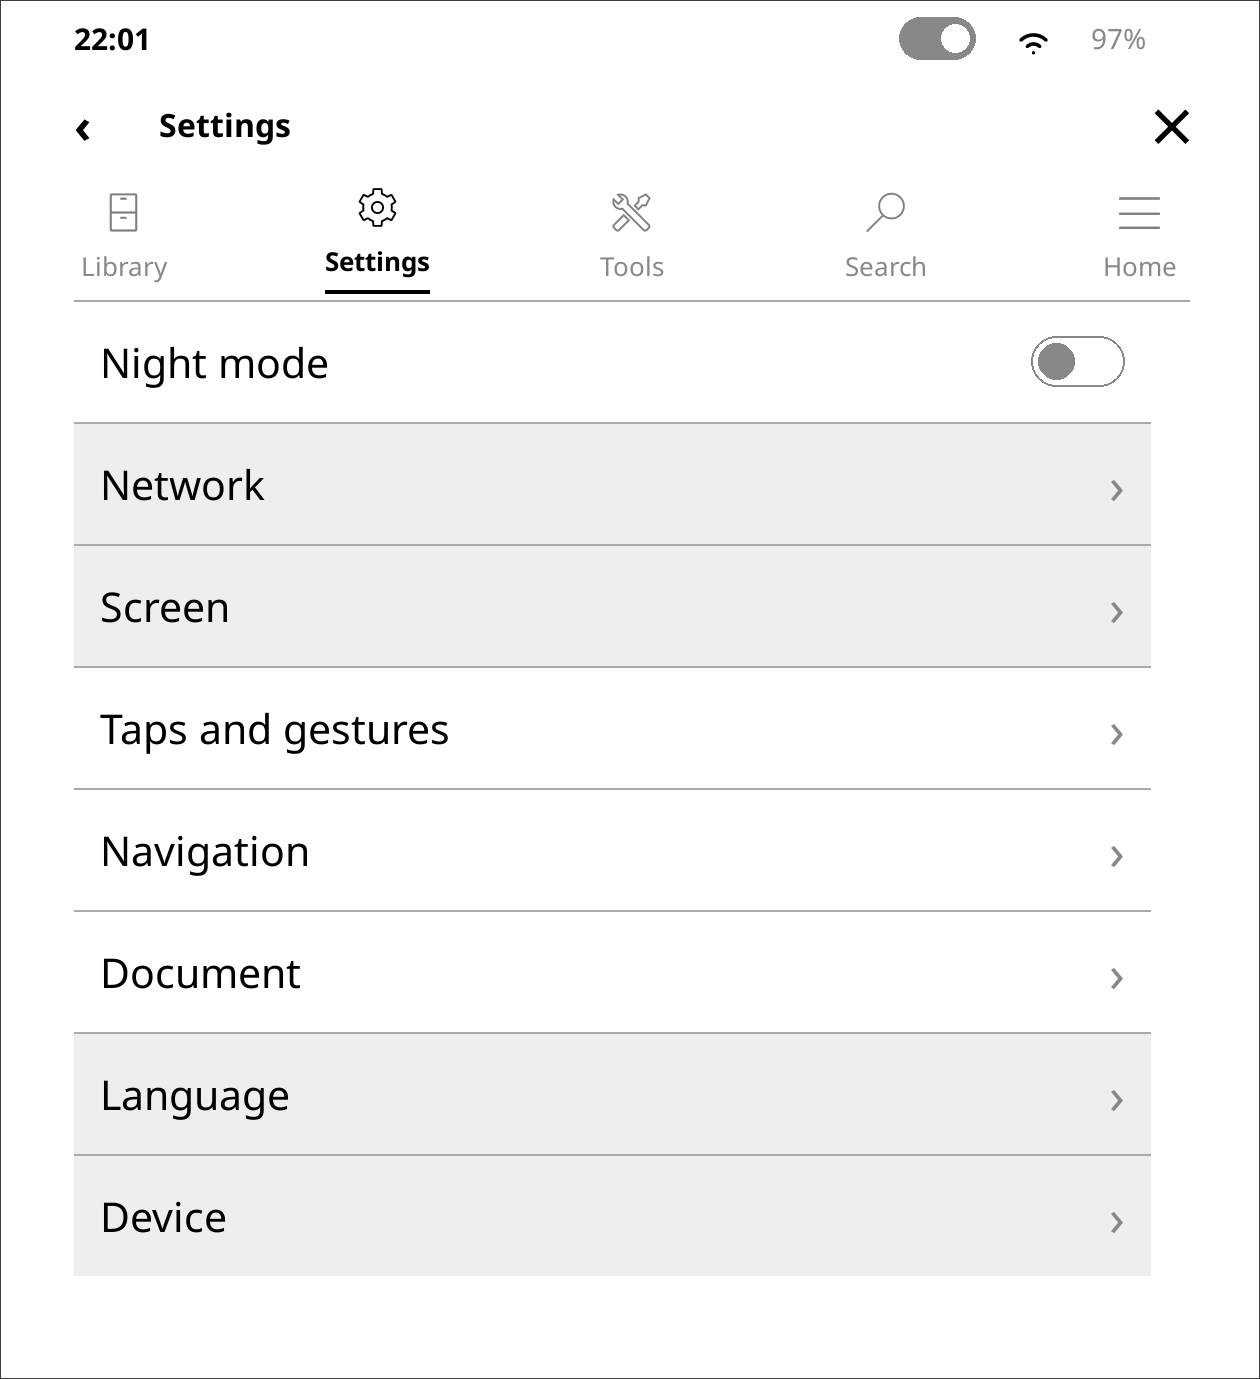
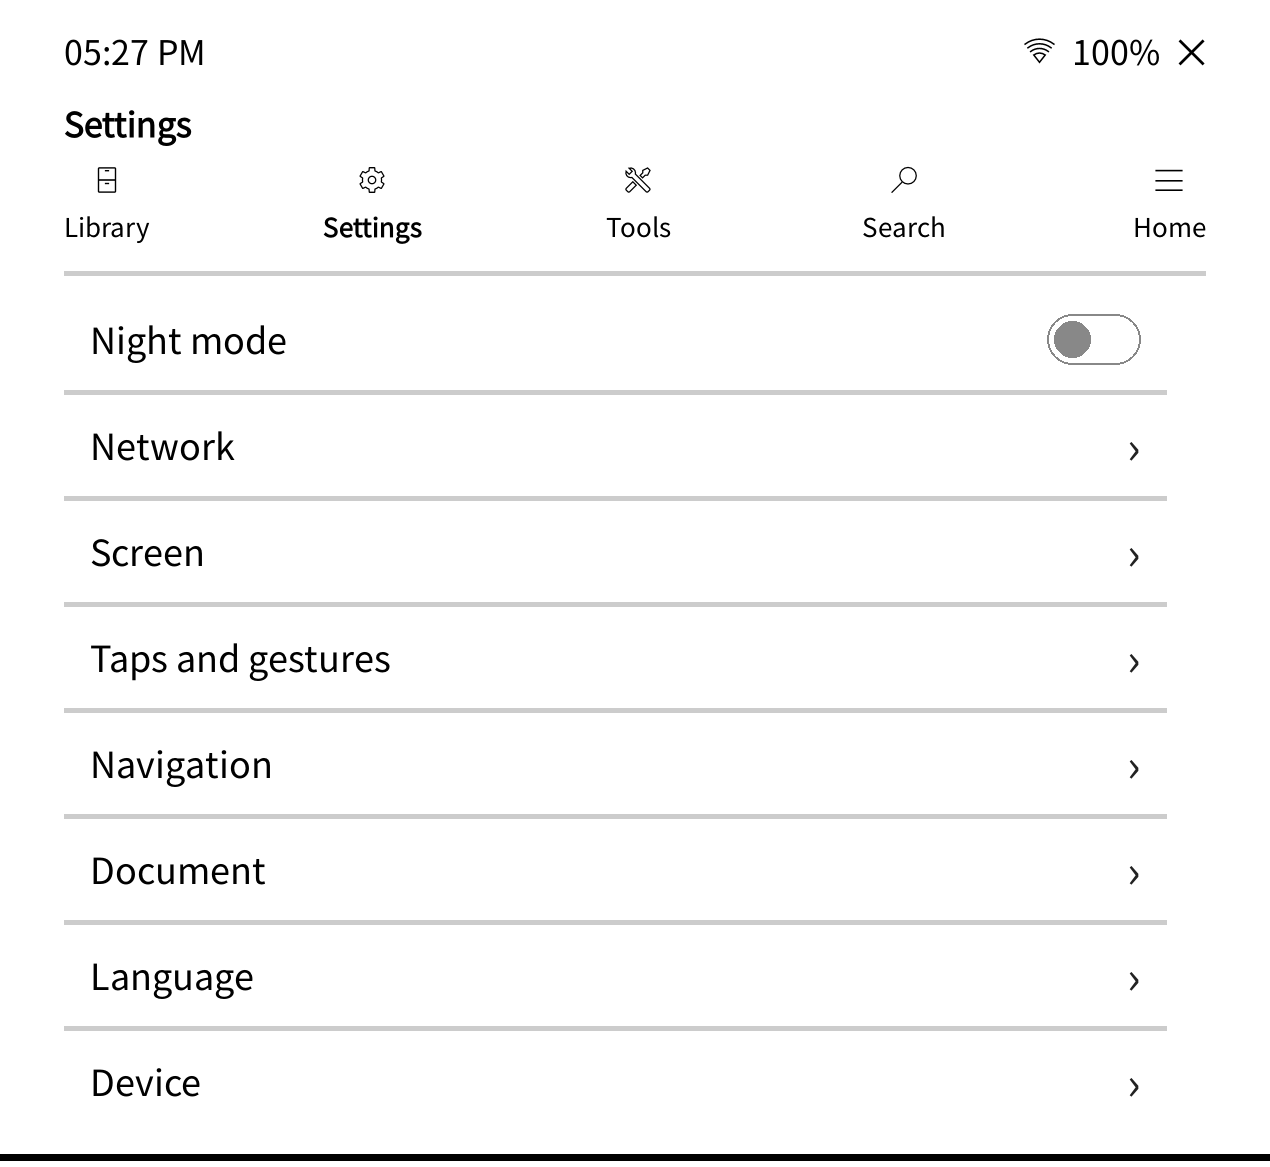
Let the status bar be hidden or show the battery as a percentage.

diff --git a/README.md b/README.md
@@ -46,25 +46,25 @@ If you want Nickel-like clarity without giving up KOReader’s depth, this plugi
 
 - Hooks `ui.menu.onShowMenu` so swipe-down / Menu key opens Modern Menu instead of stock TouchMenu  
 - Renders the real `tab_item_table` — every stock and plugin entry still works  
-- Breadcrumbs for nested menus. Back (`‹`) sits with the title inside a submenu; close sits with the status icons  
+- Breadcrumbs for nested menus. Back (`‹`) sits with the title inside a submenu; close sits with the status icons, or on the title row when the status bar is hidden  
 - Tab bar with KOReader `appbar.`* icons. Each icon is centered on its label, the selected tab is bold, and a light rule sits under the row  
 - Light-gray separators between items  
 - Gray toggle switches and vertical scrollbar (no fake horizontal scroll)
 
 ### Status bar (menu + optional file browser)
 
-Shown at the top of the modern menu:
+Shown at the top of the modern menu, unless **Modern Menu → Hide status bar** is on. With the bar hidden, the close mark moves to the title row.
 
 
-| Control        | Action                                                               |
-| -------------- | -------------------------------------------------------------------- |
-| **Time**       | Current time, 12-hour                                                |
-| **Contrast**   | Frontlight panel (devices with a light only)                        |
-| **Wi‑Fi**      | Open KOReader network / Wi‑Fi UI                                     |
-| **Battery**    | Battery icon; opens **Battery statistics** (batterystat plugin)     |
+| Control        | Action                                                                                          |
+| -------------- | ----------------------------------------------------------------------------------------------- |
+| **Time**       | Current time, 12-hour                                                                           |
+| **Contrast**   | Frontlight panel (devices with a light only)                                                   |
+| **Wi‑Fi**      | Open KOReader network / Wi‑Fi UI                                                                |
+| **Battery**    | Battery icon, or a percentage when **Battery as percentage** is on; opens **Battery statistics** |
 
 
-The same bar can sit above the file browser. That is off until **Modern Menu → Status bar in file browser** is enabled.
+The same bar can sit above the file browser. That is off until **Modern Menu → Status bar in file browser** is enabled. **Battery as percentage** applies to that copy too.
 
 
 The status bar is **never** injected into the reader view — use KOReader’s own header/footer settings while reading.
@@ -104,7 +104,7 @@ Remove or disable `modern_menu.koplugin`, then restart KOReader. To go back temp
 
 - **Swipe down** from the top edge still opens the menu; Modern Menu consumes that gesture so stock TouchMenu does not also appear.  
 - **Tap** a row for the usual action; **long-press** where stock supported it (help text, style-tweak details, book-specific CSS editor, etc.).   
-- **Modern Menu → Status bar in file browser** shows the same status bar above the file list. It is off until you turn it on. The menu always keeps its own bar.
+- **Modern Menu → Status bar in file browser** shows the same status bar above the file list. It is off until you turn it on. **Hide status bar** removes the bar from the menu; the close mark then sits on the title row. **Battery as percentage** replaces the battery icon with the charge.
 
 ---
 
@@ -113,7 +113,7 @@ Remove or disable `modern_menu.koplugin`, then restart KOReader. To go back temp
 - Solid borders / high-contrast text  
 - Screen refreshes (`setDirty`) only on real state changes
 
-The status bar uses KOReader’s own icons (contrast, Wi‑Fi, and a drawn battery). Spare [Lucide](https://lucide.dev/) SVGs remain under `icons/` (ISC); see `[modern_menu.koplugin/icons/NOTICE](modern_menu.koplugin/icons/NOTICE)`.
+The status bar uses KOReader’s own icons (contrast, Wi‑Fi, and a drawn battery, or a percentage). Spare [Lucide](https://lucide.dev/) SVGs remain under `icons/` (ISC); see `[modern_menu.koplugin/icons/NOTICE](modern_menu.koplugin/icons/NOTICE)`.
 
 ---
 

diff --git a/CHANGELOG.md b/CHANGELOG.md
@@ -1,5 +1,13 @@
 # Changelog
 
+## 1.9.0 — 2026-10-20
+
+The status bar can be hidden, and the battery can show as a percentage.
+
+### Changes
+- **Hide status bar** removes the clock, contrast, Wi-Fi, and battery row from the menu. The close mark moves to the title row
+- **Battery as percentage** shows the charge as a number instead of the battery icon, in the menu and in the file browser
+
 ## 1.8.0 — 2026-10-15
 
 Modern Menu now complements [Kobold](https://github.com/unitreign/kobold): the same type and spacing, and a menu that stays available on Kobold’s screens.
